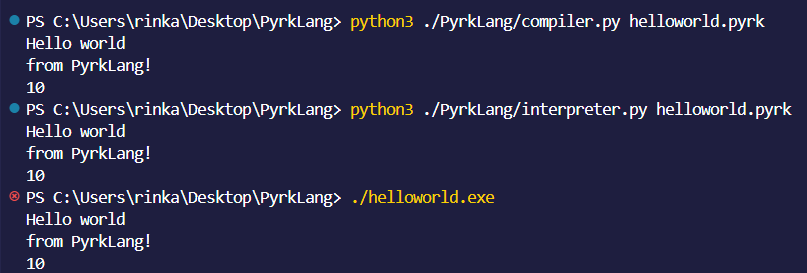
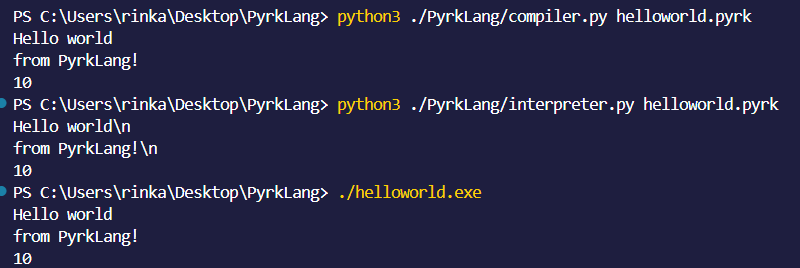
compiler rewrote, doesnt work as interpreter

diff --git a/PyrkLang/compiler.py b/PyrkLang/compiler.py
@@ -1,84 +1,63 @@
-import sys
-import tokenizer
-import os
+from pyrkparser import *
+from lexer import lexer
+import sys, os
 
-# TODO: Create a good interface for the coder
-
-# print("[X] Reading file...")
 filepath = sys.argv[1]
 
 with open(filepath, "r") as f:
     code = f.read()
 
-asmFilepath = filepath[:-5] + '.asm'
-out = open(asmFilepath, "w")
+cFilepath = filepath[:-5] + '.c'
+out = open(cFilepath, "w")
 
-# print("[X] Tokenizing file...")
-programInstructions = tokenizer.tokenize(code)
-position = -1
-printArgs = []
-printCounter = -1
+tokens = lexer.lex(code)
+ast = parser.parse(tokens)
 
-# Getting print args
-for instruction in programInstructions:
-    if isinstance(instruction, list):
-        for pos, instr in enumerate(instruction):
-            if instr == "print" and pos + 1 < len(instruction):
-                printArgs.append(instruction[pos + 1])
+class Compiler:
+    def __init__(self, ast) -> None:
+        self.printArgs = []
+        
+        out.write("""
+// -- header --
+#include <stdio.h>
+        """)
 
-out.write("""; -- header --
-bits 64
-default rel
+        out.write("""
+// -- variables --
+
 """)
 
-out.write("""; -- variables --
-section .bss
+
+        out.write("""
+// -- constants --
+
+        """)
+
+        out.write("""
+// -- Entry point --
+int main() {
+
 """)
 
-out.write("""; -- constants --
-section .data
-""")
-for i, printarg in enumerate(printArgs):
-    out.write(f"print_arg_{i} db \"{printarg}\", 10, 0\n")
+    def visit(self, node):
+        if isinstance(node, PrintNode):
+            out.write(f'// -- PRINT --\n')
+            value = self.visit(node.value)
+            out.write(f'printf("{str(value)}");')
+        if isinstance(node, NumberNode):
+            return int(node.value)
+        if isinstance(node, StringNode):
+            return node.value[1:-1]
+    
+    def compile(self):
+        for node in ast:
+            self.visit(node)
 
-out.write("""; -- Entry point --
-section .text
-global main
-extern ExitProcess
-extern printf
-          
-main:
-\tPUSH rbp
-\tMOV rbp, rsp
-\tSUB rsp, 32
-""")
-
-# print("[X] Executing...")
-
-for instruction in programInstructions:
-    if isinstance(instruction, list):
-        for instr in instruction:
-            if instr == "print":
-                printCounter += 1
-                out.write(f"; -- PRINT --\n")
-                out.write(f"\tLEA rcx, [print_arg_{printCounter}]\n")
-                out.write(f"\tXOR eax, eax\n")
-                out.write(f"\tCALL printf\n")
-
-out.write("""
-\tXOR rax, rax
-\tCALL ExitProcess
-
-\tMOV rsp, rbp
-\tPOP rbp
-\tRET
-""")
+comp = Compiler(ast)
+comp.compile()
+out.write('return 0;\n}')
 out.close()
 
-# Assembling and linking the generated ASM code
-os.system(f"nasm -f elf64 {asmFilepath}")
-os.system(f"gcc -o {asmFilepath[:-4] + '.exe'} {asmFilepath[:-4] + '.o'}")
-os.system(f"{asmFilepath[:-4] + '.exe'}")
-
-os.remove(f"{asmFilepath[:-4] + '.o'}")
-os.remove(f"{asmFilepath[:-4] + '.asm'}")
+os.system(f"gcc {cFilepath[:-2] + '.c'} -o {cFilepath[:-2] + '.exe'}")
+os.system(f"{cFilepath[:-2] + '.exe'}")
+os.remove(f"{cFilepath[:-2] + '.c'}")

diff --git a/README.md b/README.md
@@ -6,11 +6,16 @@ project is only starting!
 ### Interpreter
 You should have your script (script.pyrk) and in the same directory all pyrklang files, for running this repo, you should do python3 ./PyrkLang/interpreter.py helloworld.pyrk
 
+PRINT CANNOT UNDERSTAND \n
+
 ### Compiler
 I recommend you to use the scheme of this repo for the dirs
-You must have installed nasm, gcc and use Windows x86_64
+You must have installed gcc
 
 Same as interpreter but with compiler file
+
+PRINT UNDERSTAND \n
+(sorry by the changes, this must be fixed in next commit)
 
 ## Documentation
 print -> built-in function, it can only receive a string or a number ex: print "hello world"
